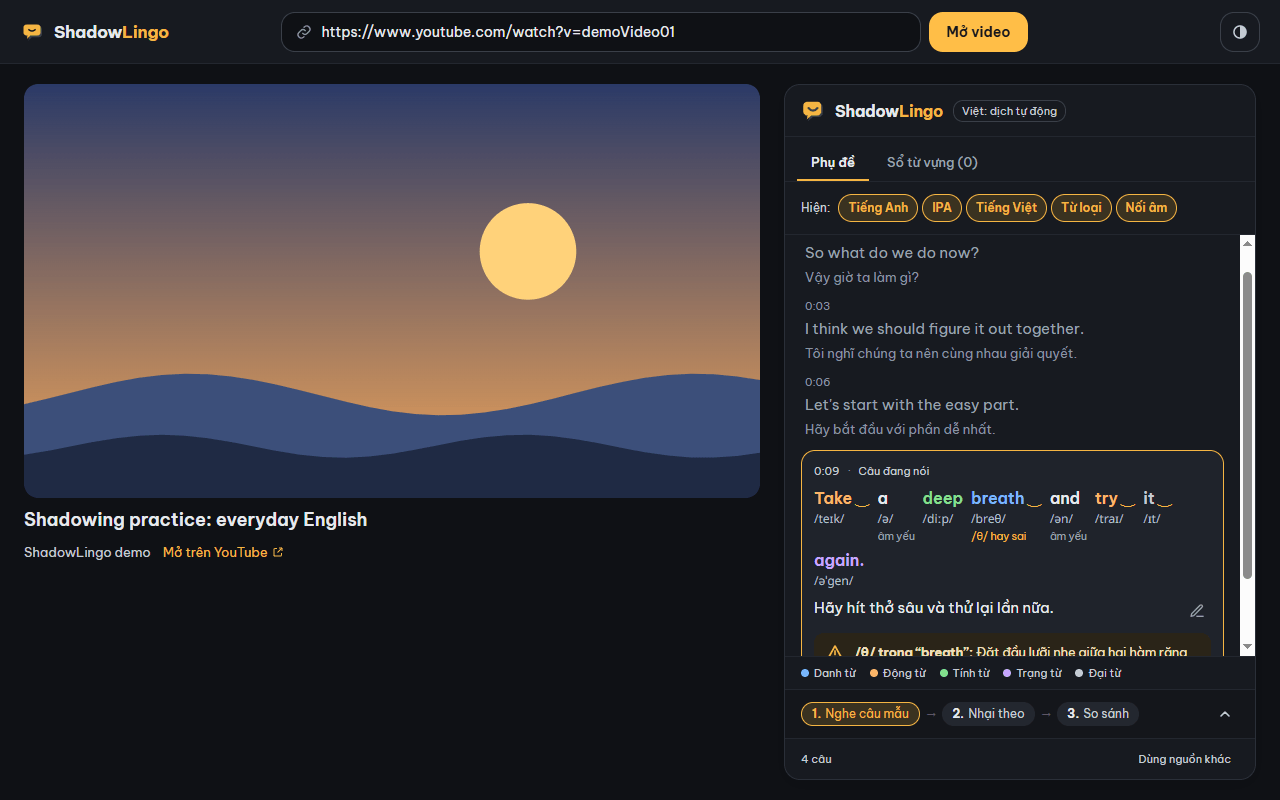
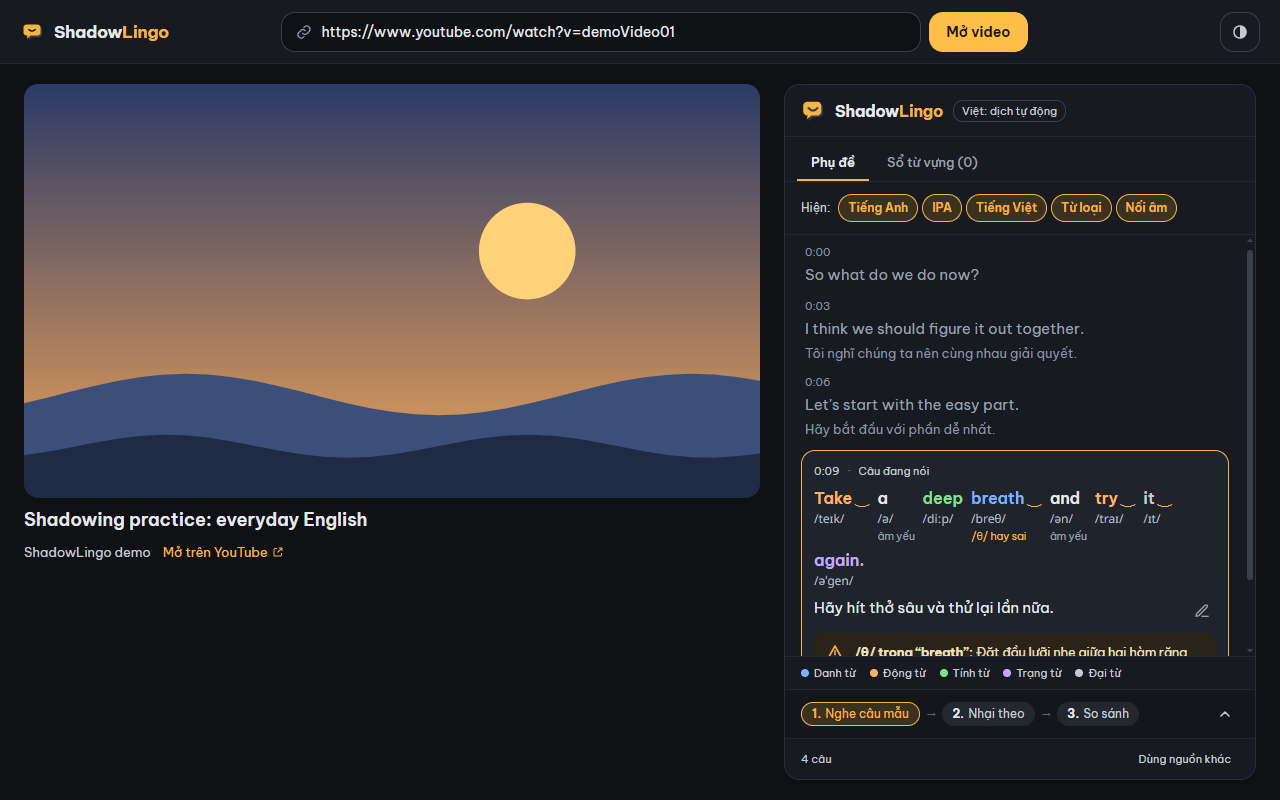
feat: thin scrollbars in the panel's colours

Changed region(s): [[0.9375, 0.2812, 1.0, 0.8125], [0.625, 0.3125, 0.7812, 0.375]]

diff --git a/packages/core/src/panel/panel.css b/packages/core/src/panel/panel.css
@@ -86,6 +86,13 @@
     --tw-ring-offset-width: 0px;
   }
 
+  /* Thin scrollbars in the panel's colours (the system ones look out of place). */
+  .sl-root,
+  .sl-root * {
+    scrollbar-width: thin;
+    scrollbar-color: var(--sl-scroll) transparent;
+  }
+
   /* Colours from the UI spec, light then dark. */
   .sl-root {
     --sl-bg: #ffffff;
@@ -125,6 +132,7 @@
     --sl-no-edge: #f0b8b8;
     --sl-no-fg: #b42318;
     --sl-sketch: #eef0f3;
+    --sl-scroll: #c9ced6;
     --sl-band: rgb(245 181 68 / 0.22);
     font-size: 14px;
     line-height: 20px;
@@ -169,6 +177,7 @@
     --sl-no-edge: #7a3b3b;
     --sl-no-fg: #ffb4ab;
     --sl-sketch: #0b0d11;
+    --sl-scroll: #3a3f48;
     --sl-band: rgb(245 181 68 / 0.16);
   }
 
